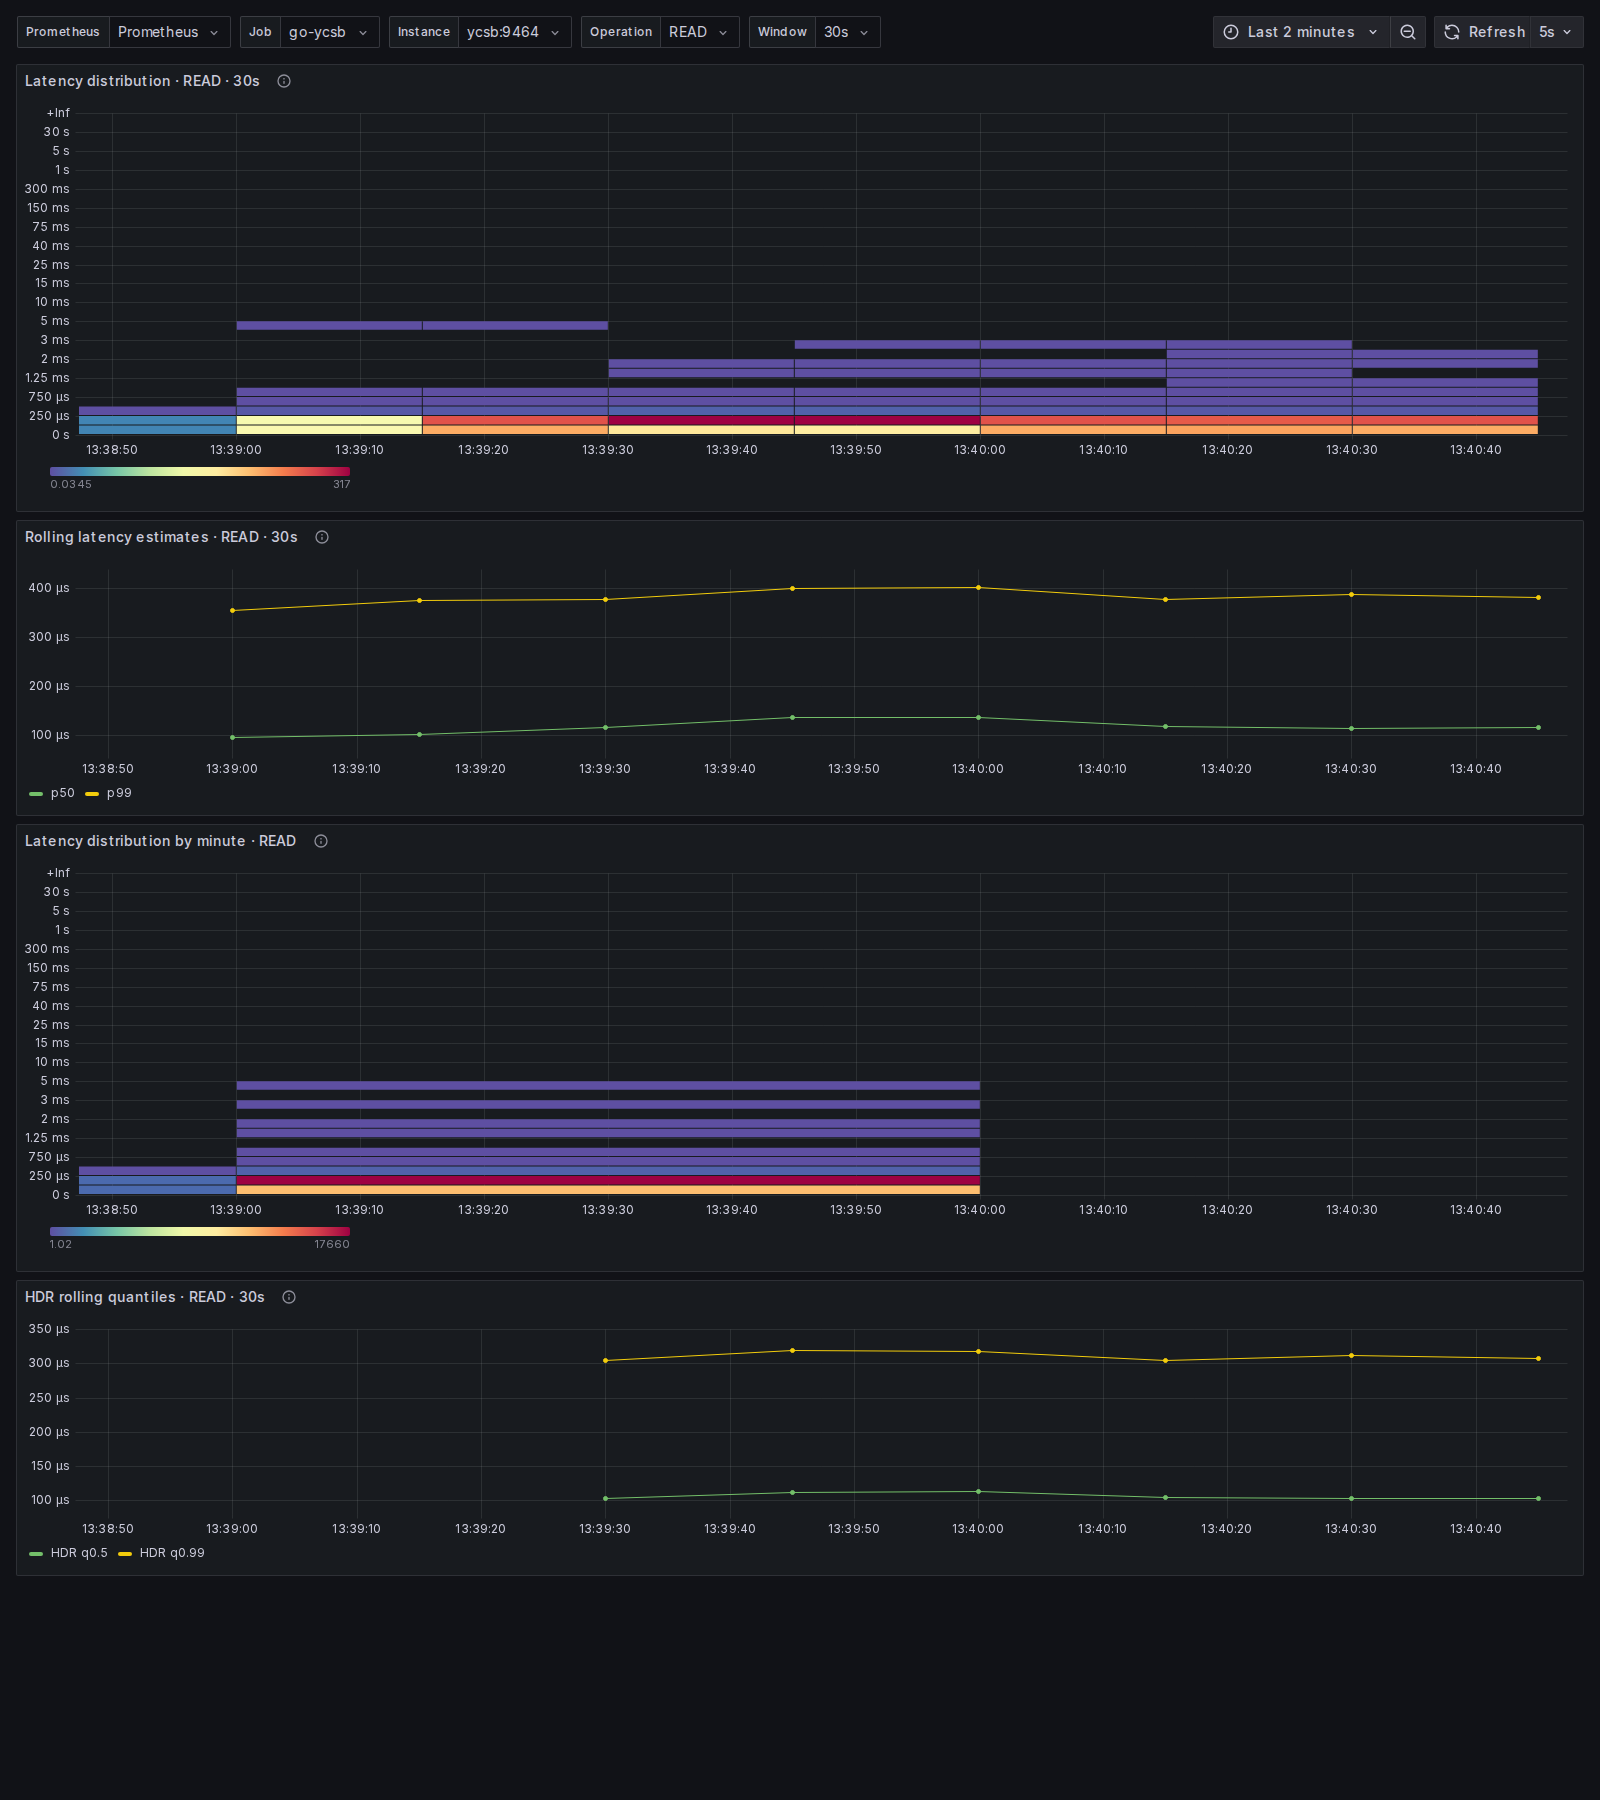
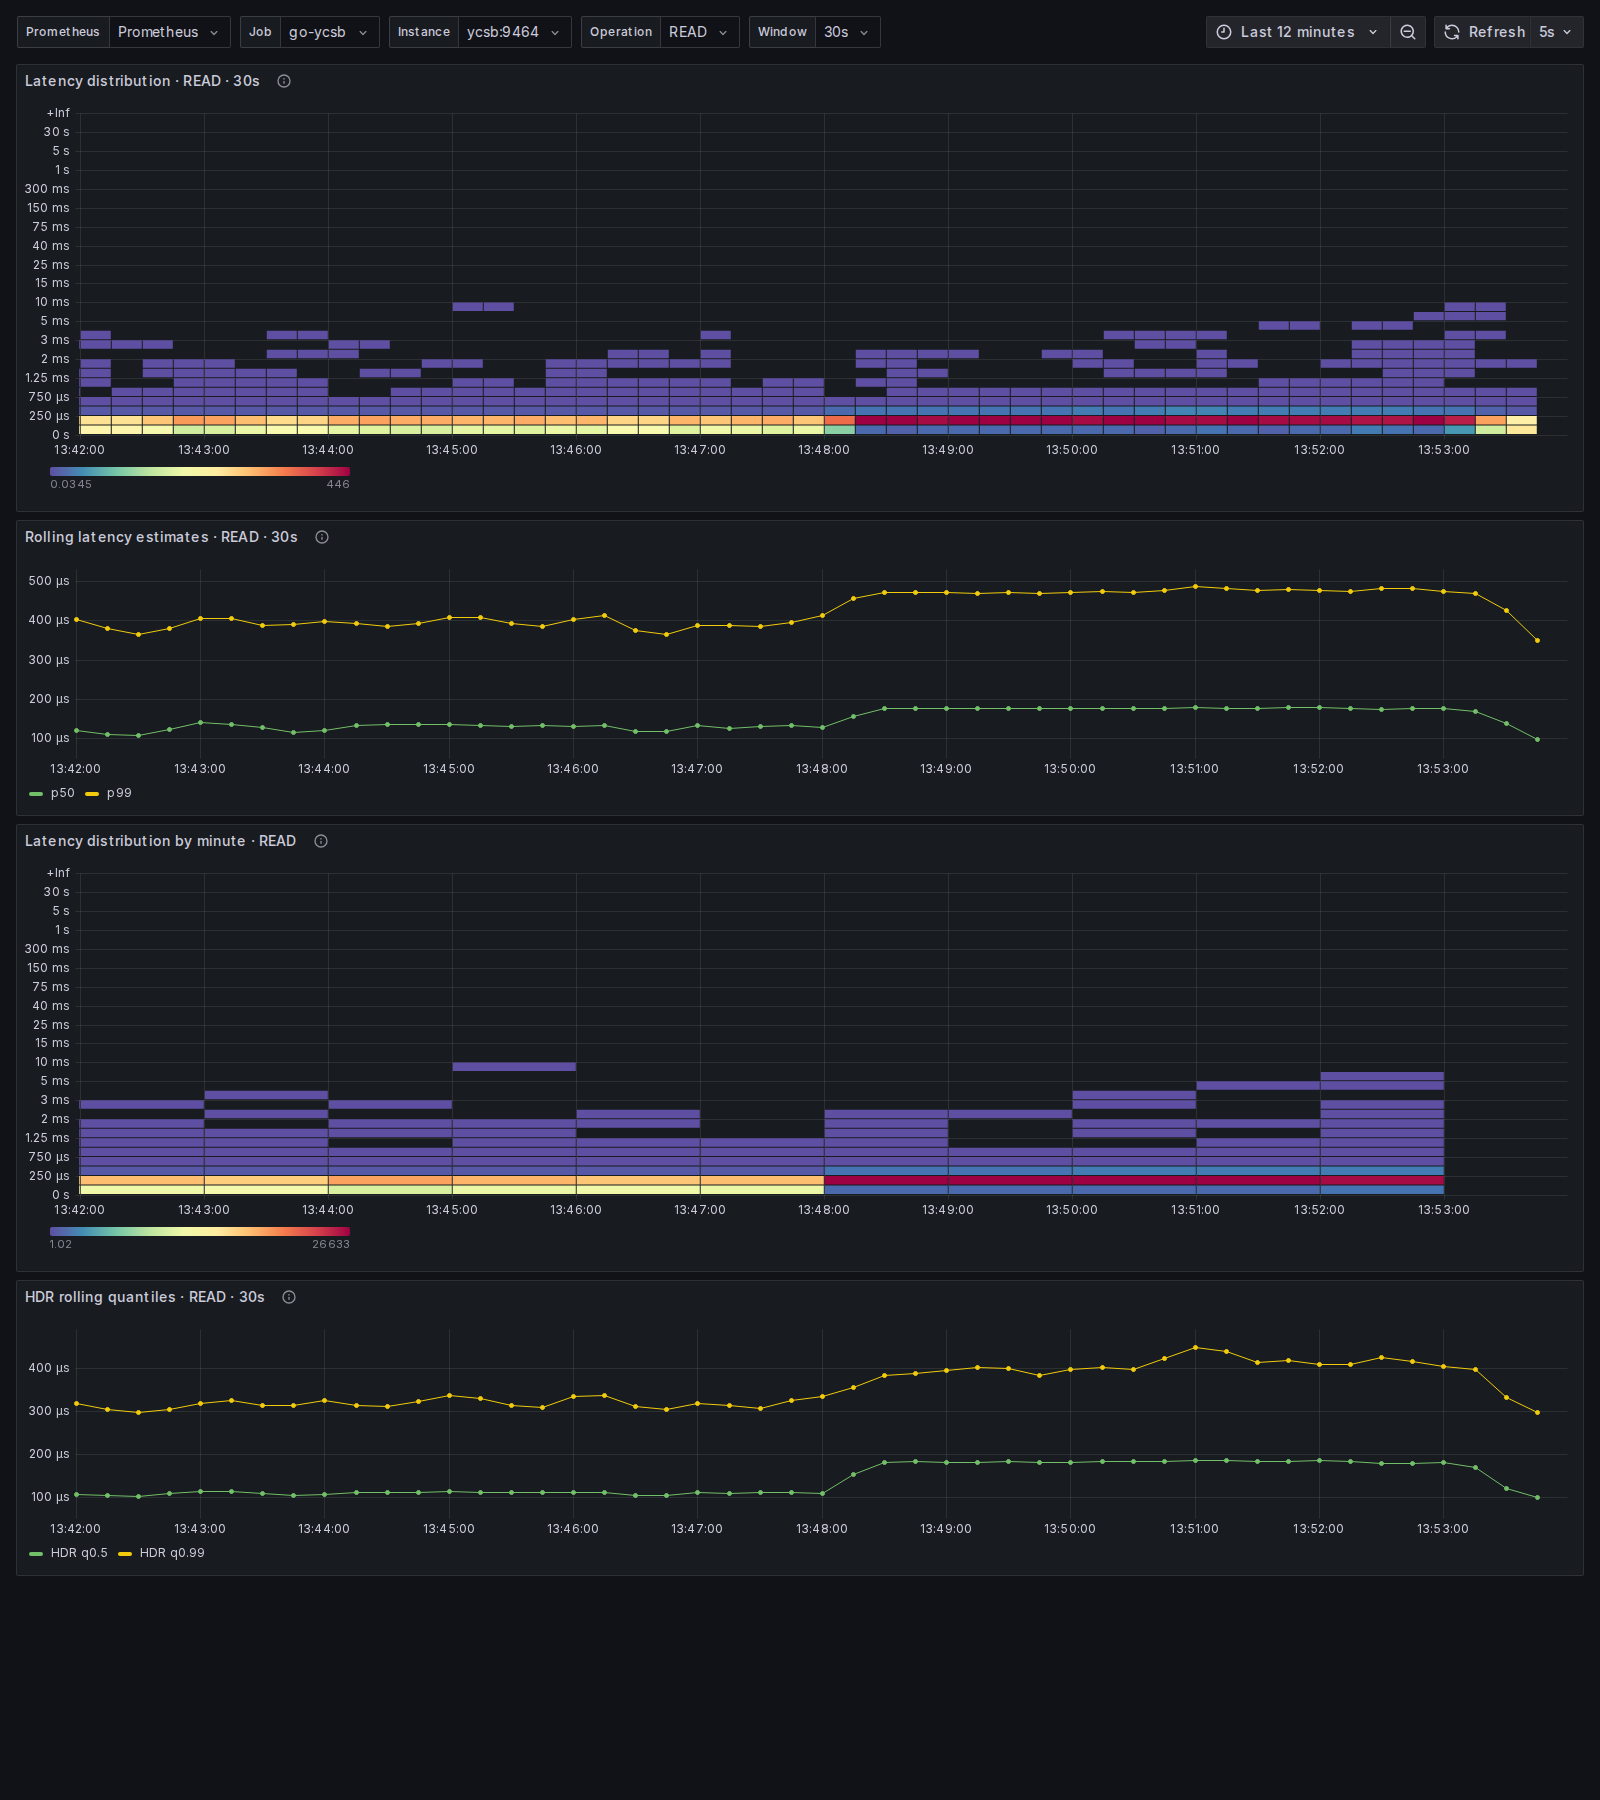
demo: show twelve minutes of live latency data

diff --git a/demo/README.md b/demo/README.md
@@ -13,7 +13,8 @@ Allow enough local resources to compile the Go binary and run the local stack.
 YCSB_DEMO_VERSION="$(git describe --always --dirty)" docker compose -f demo/compose.yaml up --build -d
 ```
 
-Open [the dashboard](http://127.0.0.1:3000/d/ycsb-latency-heatmap/ycsb-live-latency-distribution?var-DS_PROMETHEUS=demo-prometheus&var-job=go-ycsb&var-instance=ycsb%3A9464&var-op=READ&var-window=30s&from=now-5m&to=now).
+Open [the dashboard](http://127.0.0.1:3000/d/ycsb-latency-heatmap/ycsb-live-latency-distribution?var-DS_PROMETHEUS=demo-prometheus&var-job=go-ycsb&var-instance=ycsb%3A9464&var-op=READ&var-window=30s&from=now-12m&to=now).
+Let the `ycsb` container run for at least 12 minutes to fill the sample's timeline.
 The heatmap needs two scrapes before it has data; the rolling 30s and 60s HDR
 gauges need 30 and 60 completed reporter slices. The exporter is also at
 <http://127.0.0.1:9464/metrics>, and the latest full HDR buckets are at
@@ -42,12 +43,12 @@ full-HDR minute heatmaps need a separate data-source ingestion step.
 
 This screenshot is an illustrative local run, not a Redis or go-ycsb performance
 claim. It shows READ operations, the fixed-bucket trailing-minute heatmap, and
-the packed HDR quantile panel. The sample was captured with a two-minute
+the packed HDR quantile panel. The sample was captured with a twelve-minute
 dashboard range.
 
 | Capture detail | Value |
 | --- | --- |
-| Capture time | 2026-10-07 13:40:47 UTC |
+| Capture time | 2026-10-07 13:54:04 UTC |
 | Local run ID | YCSB container `8c1fc2983b21` (started 2026-10-07 13:38:51 UTC) |
 | go-ycsb source/build | Commit `926e385`, as exported by `ycsb_info` |
 | Data node | One local Redis 8.10.2 container on an arm64 Colima VM; 10,000 keys |
